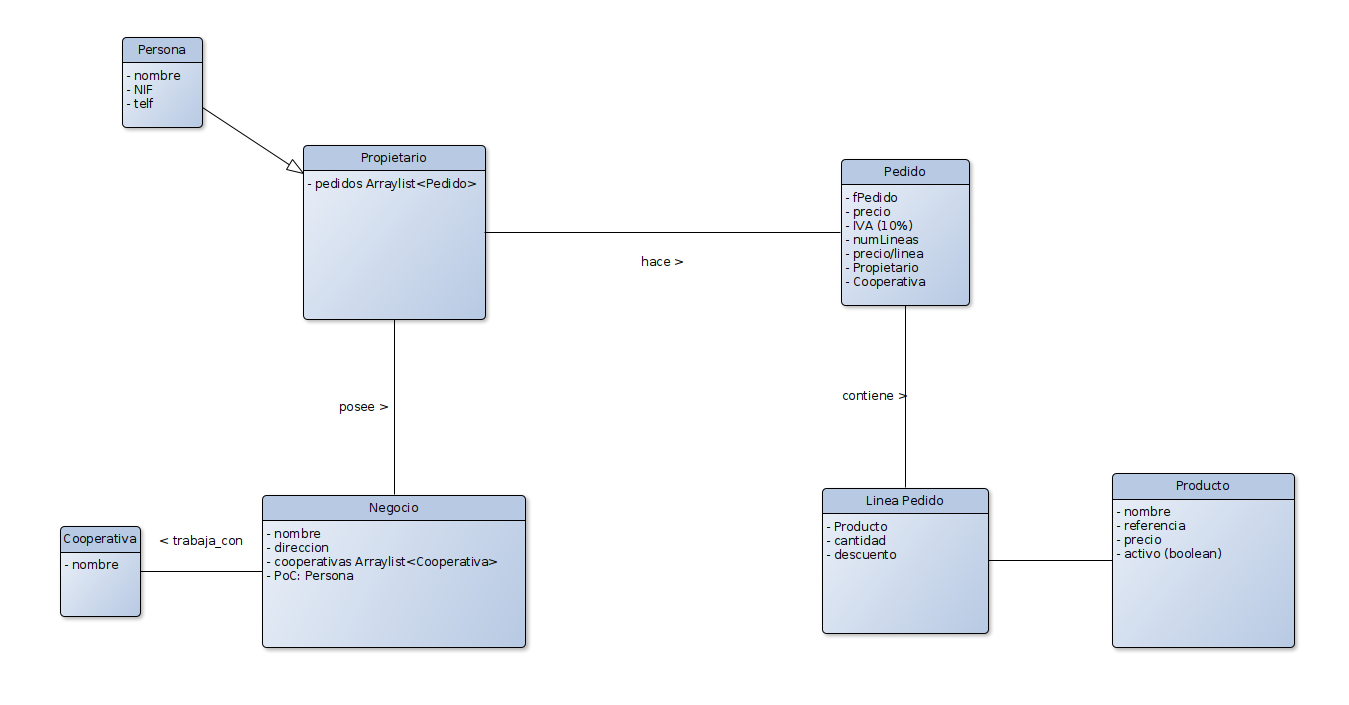
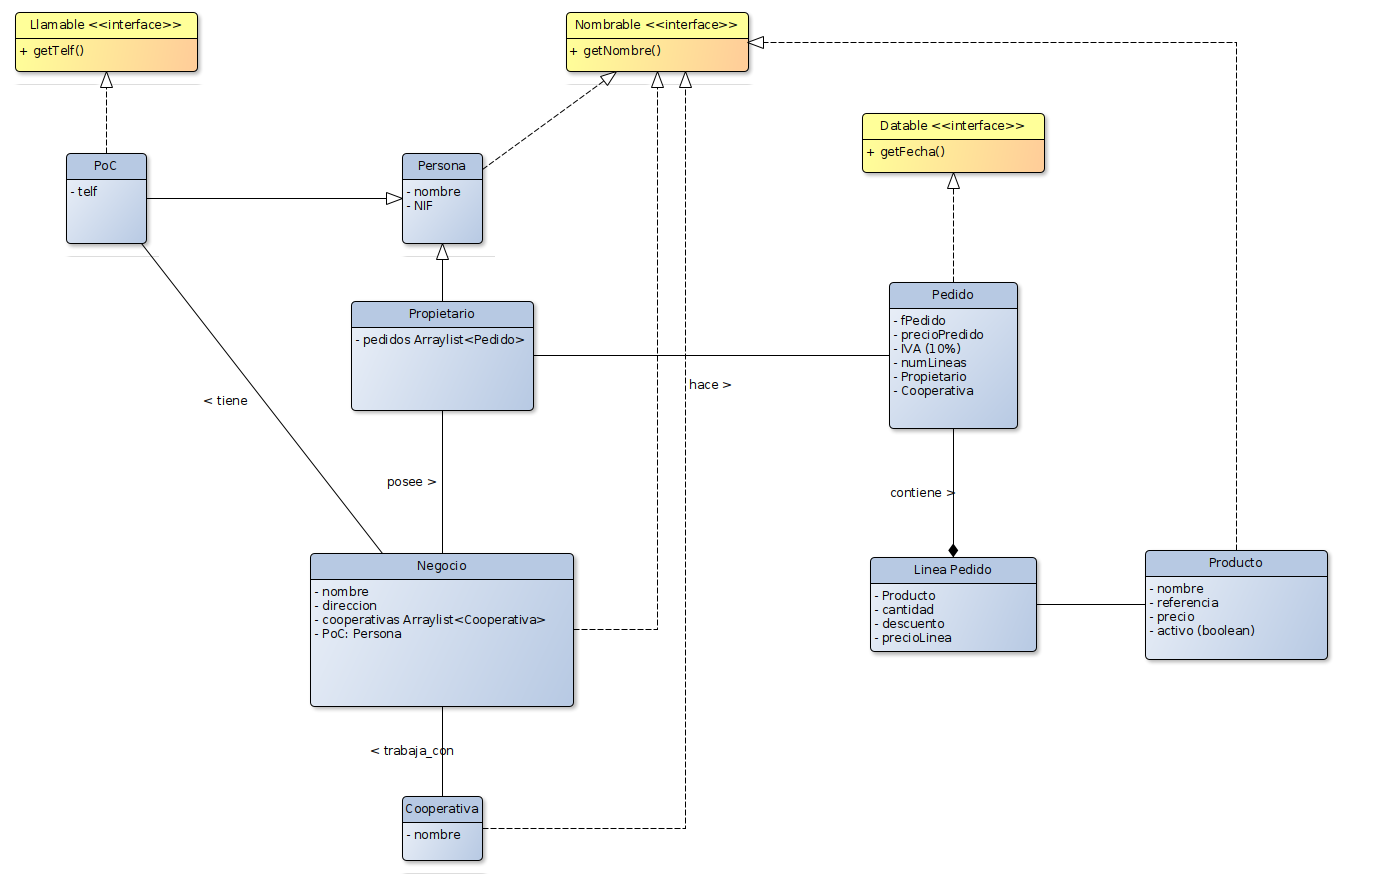
pedido updating

diff --git a/src/es/farmacia/Pedido.java b/src/es/farmacia/Pedido.java
@@ -1,0 +1,163 @@
+package es.farmacia;
+
+import java.time.LocalDate;
+import java.util.ArrayList;
+import java.util.Iterator;
+import java.util.List;
+
+
+public class Pedido implements Datable{
+
+	
+	
+	private LocalDate fPedido;
+	private double precioPedido;
+	// IVA
+	private double IVA = 10;
+	private int numLineas;
+	private List<LineaPedido> lineasPedido;
+	private Propietario propietario;
+	
+	
+	// CONSTRUCTORES
+	public Pedido(List<LineaPedido> lineasPedido, Propietario propietario) {
+		
+		this.lineasPedido = lineasPedido;
+		this.propietario = propietario;
+		
+		// FECHA ACTUAL
+		this.fPedido = LocalDate.now();
+		
+		//ACTUALIZAMOS NUMERO LINEAS PEDIDO
+		setNumLineas();
+		
+		// ACTUALIZAMOS PRECIO TOTAL DEL PEDIDO
+		
+		
+	}
+
+	public void imprimirPedido() {
+		
+		System.out.println("RESUMEN DEL PEDIDO");
+		System.out.println("------------------");
+		System.out.println();
+		System.out.println("> Fecha Pedido: " + getfPedido());
+		System.out.println("> Precio Total: " + getPrecioPedido());
+		System.out.println("> Precio Total con IVA: " + calcPrecioConIVA(precioPedido));
+		System.out.println("> Total productos: " + getNumLineas());
+		System.out.println("> ");
+		
+		
+	}
+	
+	
+	// METODO PARA CALCULAR PRECIO CON IVA
+	private double calcPrecioConIVA(double precio) {
+		
+		double precioConIVA;
+		
+		precioConIVA = precio*((this.IVA+100)/10);
+		
+		return precioConIVA;
+		
+	}
+	
+	@Override
+	public LocalDate getDate() {
+		// TODO Auto-generated method stub
+		return getfPedido();
+	}
+
+
+	public LocalDate getfPedido() {
+		return this.fPedido;
+	}
+
+
+	public double getPrecioPedido() {
+		return this.precioPedido;
+	}
+
+
+	public double getIVA() {
+		return this.IVA;
+	}
+
+
+	
+	public int getNumLineas() {
+		
+		
+		return this.numLineas;
+	}
+
+
+	public List<LineaPedido> getLineasPedido() {
+		return this.lineasPedido;
+	}
+
+
+	public Propietario getPropietario() {
+		return this.propietario;
+	}
+
+
+	protected void setfPedido(LocalDate fPedido) {
+		this.fPedido = fPedido;
+	}
+	
+	// CONTAMOS LINEAS DEL ARRAY
+	private void setNumLineas() {
+		
+		this.numLineas = lineasPedido.size();
+		
+	}
+
+	// CALCULAMOS PRECIO TOTAL SIN IVA DEL ArrayList lineasPedido.
+	private void setPrecioPedido() {
+		
+		double resultadoPrecioPedido;
+		
+		for (Iterator iterator = lineasPedido.iterator(); iterator.hasNext();) {
+			LineaPedido lineaPedido = (LineaPedido) iterator.next();
+			
+		} 
+		
+		this.precioPedido = resultadoPrecioPedido;
+	}
+
+
+	protected void setIVA(double IVA) {
+		this.IVA = IVA;
+	}
+
+
+	protected void setLineasPedido(List<LineaPedido> newLineasPedido) {
+		
+		if (this.lineasPedido == null) {
+			
+			this.lineasPedido = new ArrayList<LineaPedido>();
+			
+		}
+		
+		this.lineasPedido.addAll(newLineasPedido);
+		
+			
+	}
+
+
+	protected void setPropietario(Propietario propietario) {
+		this.propietario = propietario;
+	}
+
+
+	@Override
+	public String toString() {
+		return "Pedido [fPedido=" + fPedido + ", precioPedido=" + precioPedido + ", IVA=" + IVA + ", numLineas="
+				+ numLineas + ", lineasPedido=" + lineasPedido + ", propietario=" + propietario + "]";
+	}
+	
+	 
+	
+	
+}

diff --git a/src/es/farmacia/PoC.java b/src/es/farmacia/PoC.java
@@ -1,10 +1,15 @@
 package es.farmacia;
 
-public class PoC extends Persona{
+public class PoC extends Persona implements Llamable{
 
 	
 	private String telf;
 	
+	public PoC(String telf) {
+		
+		this.telf = telf;
+		
+	}
 	
 	public PoC(String nombre, String telf) {
 		
@@ -21,14 +26,18 @@ public class PoC extends Persona{
 		
 	}
 
-
-	public String getTelf() {
-		return telf;
-	}
-
+	
 
 	protected void setTelf(String telf) {
 		this.telf = telf;
+	}
+	
+	
+	
+	@Override
+	public String getTelf() {
+		// TODO Auto-generated method stub
+		return null;
 	}
 
 
@@ -36,6 +45,9 @@ public class PoC extends Persona{
 	public String toString() {
 		return "PoC [telf=" + telf + ", nombre=" + getNombre() + ", NIF=" + getNIF() + "]";
 	}
+
+
+	
 	
 	
 	

diff --git a/src/es/farmacia/Persona.java b/src/es/farmacia/Persona.java
@@ -1,6 +1,7 @@
 package es.farmacia;
 
-public class Persona {
+public abstract class Persona implements Nombrable{
+	
 	
 	private String nombre;
 	private String NIF;
@@ -8,11 +9,9 @@ public class Persona {
 	
 	public Persona() {
 		
-		
 	}
 	
 	public Persona(String nombre) {
-		
 
 		this.nombre = nombre;
 		
@@ -31,13 +30,13 @@ public class Persona {
 	}
 
 
-
+	@Override
 	public String getNombre() {
-		return nombre;
+		return this.nombre;
 	}
 
 	public String getNIF() {
-		return NIF;
+		return this.NIF;
 	}
 
 
@@ -46,8 +45,8 @@ public class Persona {
 		this.nombre = nombre;
 	}
 
-	protected void setNIF(String nIF) {
-		NIF = nIF;
+	protected void setNIF(String NIF) {
+		this.NIF = NIF;
 	}
 
 

diff --git a/src/es/farmacia/Propietario.java b/src/es/farmacia/Propietario.java
@@ -2,23 +2,7 @@ package es.farmacia;
 
 public class Propietario extends Persona{
 	
-	
-	public Propietario() {
-		
-		super();
-		
-	}
-	
-	
-	
-	public Propietario(String nombre, String NIF) {
-		
-		
-		
-		
-	}
-	
-	
+
 	
 
 }

diff --git a/src/es/farmacia/LineaPedido.java b/src/es/farmacia/LineaPedido.java
@@ -1,0 +1,13 @@
+package es.farmacia;
+
+public class LineaPedido {
+
+	private int cantidad;
+	private double descuento;
+	private double precioLinea;
+	
+	
+	
+	
+	
+}

diff --git a/src/es/farmacia/Datable.java b/src/es/farmacia/Datable.java
@@ -1,0 +1,9 @@
+package es.farmacia;
+
+import java.time.LocalDate;
+
+public interface Datable {
+
+	LocalDate getDate();
+	
+}

diff --git a/src/es/farmacia/AppFarmacia.java b/src/es/farmacia/AppFarmacia.java
@@ -7,6 +7,7 @@ public class AppFarmacia {
 		
 		System.out.println("Hello world!");
 		
+		
 	}
 
 }

diff --git a/src/es/farmacia/Nombrable.java b/src/es/farmacia/Nombrable.java
@@ -1,0 +1,7 @@
+package es.farmacia;
+
+public interface Nombrable {
+	
+	String getNombre();
+
+}

diff --git a/src/es/farmacia/Llamable.java b/src/es/farmacia/Llamable.java
@@ -1,0 +1,7 @@
+package es.farmacia;
+
+public interface Llamable {
+	
+	
+	String getTelf();
+}
